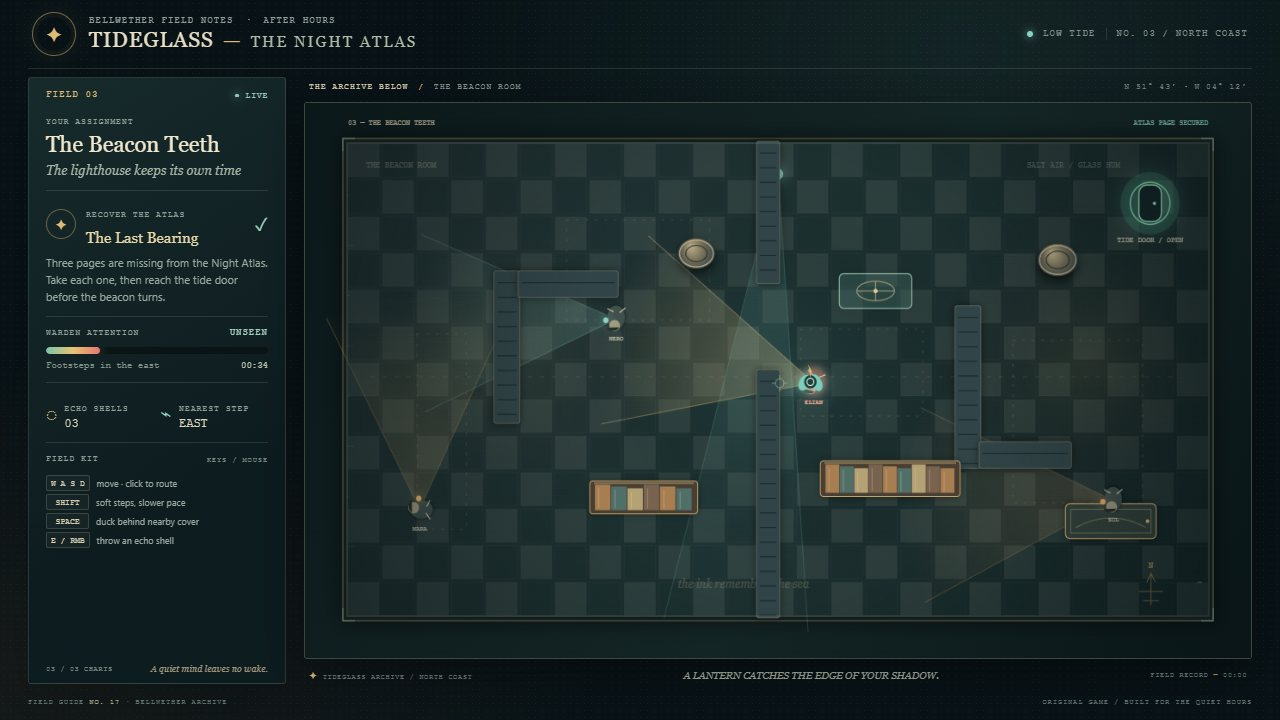
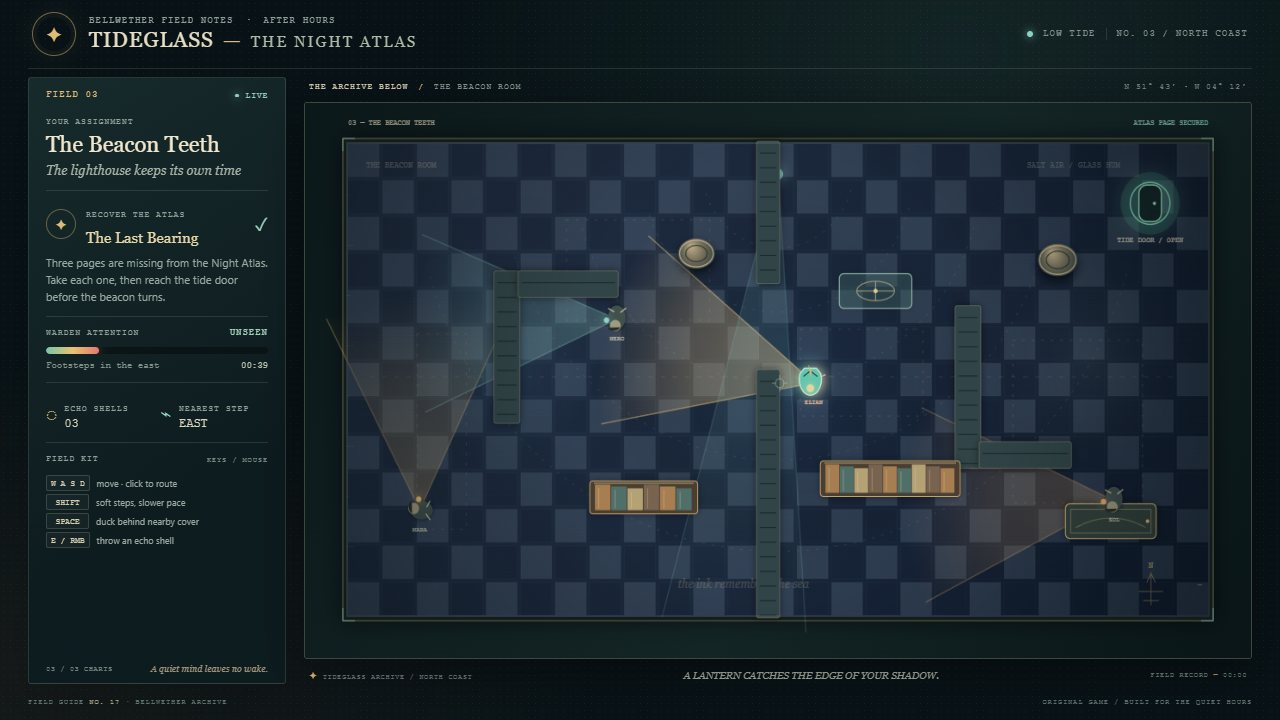
Sharpen Tideglass field visuals

diff --git a/game/src/render.js b/game/src/render.js
@@ -24,7 +24,7 @@ export function renderScene(ctx, game, time) {
   ctx.save();
   ctx.translate(CANVAS.mapX, CANVAS.mapY);
   ctx.scale(CANVAS.mapW / CANVAS.worldW, CANVAS.mapH / CANVAS.worldH);
-  drawFloor(ctx, game.level, time);
+  drawFloor(ctx, game.level, time, game.levelIndex);
   drawPatrolLines(ctx, game.guards);
   drawLanterns(ctx, game.guards);
   drawBeacon(ctx, game, time);
@@ -72,22 +72,28 @@ function drawMapFrame(ctx, time) {
   });
 }
 
-function drawFloor(ctx, level, time) {
+function drawFloor(ctx, level, time, levelIndex) {
+  const palettes = [
+    { floor: ['#263638', '#1d3030', '#172829'], tile: ['#71827b', '#192e2d'], detail: 'rgba(225,211,177,.15)', pools: ['rgba(190,151,93,.12)', 'rgba(71,143,139,.14)', 'rgba(209,151,85,.12)'] },
+    { floor: ['#1d3540', '#172a35', '#10232e'], tile: ['#75949a', '#142a36'], detail: 'rgba(168,218,213,.17)', pools: ['rgba(64,144,158,.16)', 'rgba(65,113,135,.14)', 'rgba(181,151,103,.10)'] },
+    { floor: ['#27344a', '#1c293c', '#101b2e'], tile: ['#73899b', '#121f32'], detail: 'rgba(177,200,216,.17)', pools: ['rgba(73,129,166,.15)', 'rgba(56,102,155,.14)', 'rgba(145,177,180,.10)'] },
+  ];
+  const palette = palettes[levelIndex] || palettes[0];
   const base = ctx.createLinearGradient(0, 0, 970, 500);
-  base.addColorStop(0, '#263638');
-  base.addColorStop(0.45, '#1d3030');
-  base.addColorStop(1, '#172829');
+  base.addColorStop(0, palette.floor[0]);
+  base.addColorStop(0.45, palette.floor[1]);
+  base.addColorStop(1, palette.floor[2]);
   ctx.fillStyle = base;
   ctx.fillRect(0, 0, 1000, 520);
 
   ctx.save();
-  ctx.globalAlpha = 0.24;
+  ctx.globalAlpha = 0.25;
   for (let y = 0; y < 520; y += 40) {
     for (let x = 0; x < 1000; x += 40) {
-      const shade = ((x / 40 + y / 40) % 2 === 0) ? '#61706a' : '#192e2d';
+      const shade = ((x / 40 + y / 40) % 2 === 0) ? palette.tile[0] : palette.tile[1];
       ctx.fillStyle = shade;
       ctx.fillRect(x + 2, y + 2, 36, 36);
-      ctx.strokeStyle = 'rgba(225,211,177,.15)';
+      ctx.strokeStyle = palette.detail;
       ctx.lineWidth = 0.55;
       ctx.strokeRect(x + 2, y + 2, 36, 36);
       const speck = ((x * 17 + y * 31) % 97) / 97;
@@ -98,9 +104,9 @@ function drawFloor(ctx, level, time) {
   ctx.restore();
 
   const pools = [
-    { x: 185, y: 235, r: 185, color: 'rgba(190,151,93,.10)' },
-    { x: 511, y: 263, r: 205, color: 'rgba(71,143,139,.12)' },
-    { x: 859, y: 240, r: 190, color: 'rgba(209,151,85,.10)' },
+    { x: 185, y: 235, r: 185, color: palette.pools[0] },
+    { x: 511, y: 263, r: 205, color: palette.pools[1] },
+    { x: 859, y: 240, r: 190, color: palette.pools[2] },
   ];
   pools.forEach((pool) => {
     const glow = ctx.createRadialGradient(pool.x, pool.y, 4, pool.x, pool.y, pool.r);
@@ -109,6 +115,7 @@ function drawFloor(ctx, level, time) {
     ctx.fillStyle = glow;
     ctx.fillRect(pool.x - pool.r, pool.y - pool.r, pool.r * 2, pool.r * 2);
   });
+  drawFieldPattern(ctx, levelIndex, time);
 
   ctx.save();
   ctx.strokeStyle = 'rgba(226,214,178,.12)';
@@ -145,6 +152,48 @@ function drawFloor(ctx, level, time) {
   drawTideMarks(ctx, time);
 }
 
+function drawFieldPattern(ctx, levelIndex, time) {
+  ctx.save();
+  ctx.lineWidth = 1;
+  if (levelIndex === 0) {
+    ctx.strokeStyle = 'rgba(224,189,127,.13)';
+    ctx.setLineDash([2, 8]);
+    [84, 146, 206].forEach((radius) => {
+      ctx.beginPath();
+      ctx.arc(500, 260, radius, 0, Math.PI * 2);
+      ctx.stroke();
+    });
+    for (let angle = 0; angle < Math.PI * 2; angle += Math.PI / 4) {
+      ctx.beginPath();
+      ctx.moveTo(500 + Math.cos(angle) * 34, 260 + Math.sin(angle) * 34);
+      ctx.lineTo(500 + Math.cos(angle) * 214, 260 + Math.sin(angle) * 214);
+      ctx.stroke();
+    }
+  } else if (levelIndex === 1) {
+    ctx.strokeStyle = 'rgba(135,210,213,.11)';
+    for (let row = 0; row < 7; row += 1) {
+      const baseY = 48 + row * 73;
+      ctx.beginPath();
+      for (let x = 0; x <= 1000; x += 20) {
+        const y = baseY + Math.sin(x * .018 + time * .35 + row) * 5;
+        if (x === 0) ctx.moveTo(x, y);
+        else ctx.lineTo(x, y);
+      }
+      ctx.stroke();
+    }
+  } else {
+    ctx.strokeStyle = 'rgba(154,206,225,.12)';
+    ctx.setLineDash([3, 8]);
+    [88, 158, 236, 320, 420].forEach((radius) => {
+      ctx.beginPath();
+      ctx.arc(500, 28, radius, .28, Math.PI - .28);
+      ctx.stroke();
+    });
+  }
+  ctx.setLineDash([]);
+  ctx.restore();
+}
+
 function drawTideMarks(ctx, time) {
   for (let index = 0; index < 8; index += 1) {
     const y = 58 + index * 55;
@@ -177,14 +226,17 @@ function drawPatrolLines(ctx, guards) {
 }
 
 function drawLanterns(ctx, guards) {
-  guards.forEach((guard) => drawCone(ctx, guard, guard.range, guard.fov / 2, guard.tint, guard.mode === 'alert' ? 0.34 : 0.21));
+  guards.forEach((guard) => {
+    const opacity = guard.mode === 'alert' ? 0.48 : guard.mode === 'investigate' ? 0.34 : 0.3;
+    drawCone(ctx, guard, guard.range, guard.fov / 2, guard.tint, opacity);
+  });
 }
 
 function drawCone(ctx, observer, range, halfAngle, color, opacity) {
   ctx.save();
   const grad = ctx.createRadialGradient(observer.x, observer.y, 5, observer.x, observer.y, range);
   grad.addColorStop(0, colorWithAlpha(color, opacity * 0.86));
-  grad.addColorStop(0.58, colorWithAlpha(color, opacity * 0.44));
+  grad.addColorStop(0.58, colorWithAlpha(color, opacity * 0.52));
   grad.addColorStop(1, colorWithAlpha(color, 0));
   ctx.fillStyle = grad;
   ctx.beginPath();
@@ -193,7 +245,7 @@ function drawCone(ctx, observer, range, halfAngle, color, opacity) {
   ctx.closePath();
   ctx.fill();
   ctx.strokeStyle = colorWithAlpha(color, opacity * 0.9);
-  ctx.lineWidth = 1.2;
+  ctx.lineWidth = 1.5;
   ctx.beginPath();
   ctx.moveTo(observer.x, observer.y);
   ctx.lineTo(observer.x + Math.cos(observer.angle - halfAngle) * range, observer.y + Math.sin(observer.angle - halfAngle) * range);
@@ -524,23 +576,34 @@ function drawPlayer(ctx, player, hidden, time) {
   ctx.save();
   ctx.translate(player.x, player.y);
   ctx.rotate(player.angle + Math.PI / 2);
-  ctx.globalAlpha = hidden ? 0.65 : 1;
+  ctx.globalAlpha = hidden ? 0.76 : 1;
   ctx.shadowColor = '#8ae3d0';
-  ctx.shadowBlur = hidden ? 8 : 17;
-  ctx.fillStyle = '#7ccdbb';
+  ctx.shadowBlur = hidden ? 10 : 20;
+  ctx.fillStyle = hidden ? '#438f81' : '#62c5ae';
   ctx.beginPath();
-  ctx.ellipse(-7, -1, 6, 10 + Math.sin(time * 8) * 1.4, -.5, 0, Math.PI * 2);
-  ctx.ellipse(7, -1, 6, 10 + Math.sin(time * 8 + .5) * 1.4, .5, 0, Math.PI * 2);
+  ctx.moveTo(-12, 9);
+  ctx.quadraticCurveTo(-15, -2, -8, -11);
+  ctx.quadraticCurveTo(0, -19 - Math.sin(time * 8) * 1.2, 8, -11);
+  ctx.quadraticCurveTo(15, -2, 12, 9);
+  ctx.lineTo(7, 15);
+  ctx.lineTo(-7, 15);
+  ctx.closePath();
   ctx.fill();
   ctx.shadowBlur = 0;
-  ctx.fillStyle = '#193f41';
+  ctx.strokeStyle = 'rgba(213,241,218,.9)';
+  ctx.lineWidth = 1.3;
+  ctx.stroke();
+  ctx.fillStyle = '#e3d4a2';
+  ctx.shadowColor = '#f2d18a';
+  ctx.shadowBlur = 8;
   ctx.beginPath();
-  ctx.arc(0, 0, 7.2, 0, Math.PI * 2);
+  ctx.arc(0, -7, 4.3, 0, Math.PI * 2);
   ctx.fill();
-  ctx.strokeStyle = '#d8e5bf';
+  ctx.shadowBlur = 0;
+  ctx.strokeStyle = 'rgba(10,39,40,.8)';
   ctx.lineWidth = 1.2;
   ctx.beginPath();
-  ctx.arc(0, 0, 4, 0, Math.PI * 2);
+  ctx.moveTo(-8, 6); ctx.lineTo(0, 12); ctx.lineTo(8, 6);
   ctx.stroke();
   ctx.fillStyle = BRASS;
   ctx.beginPath();
